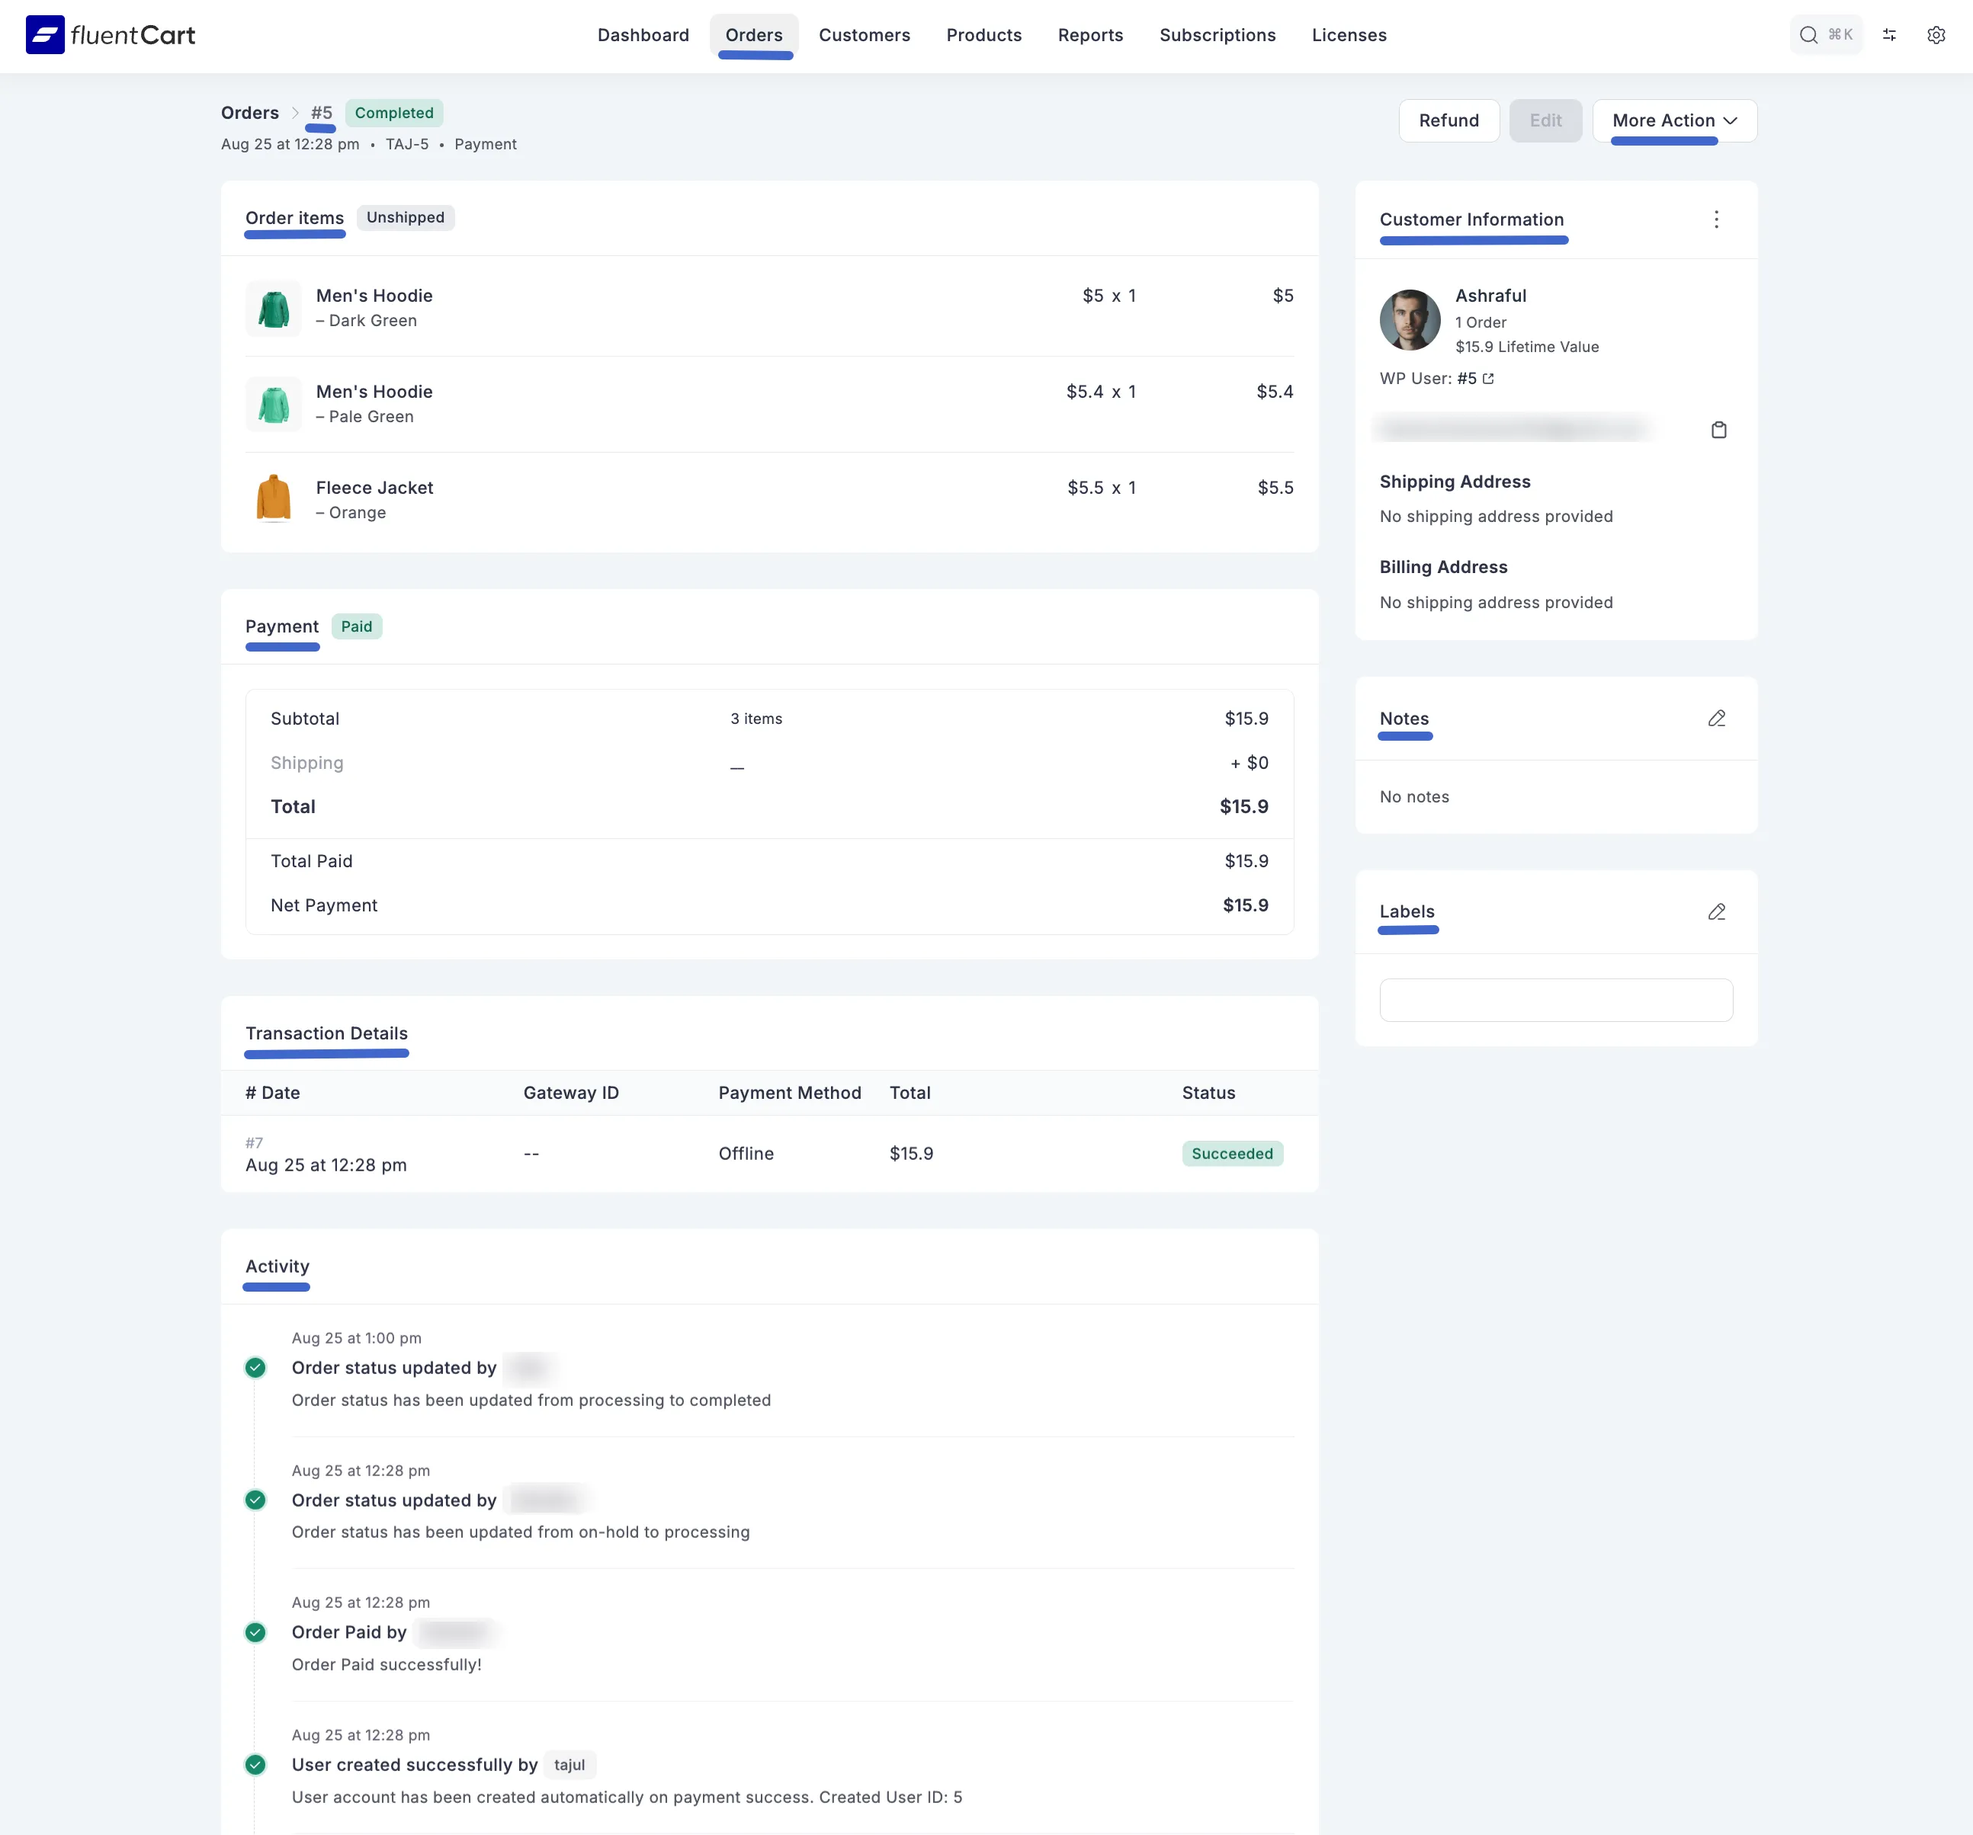
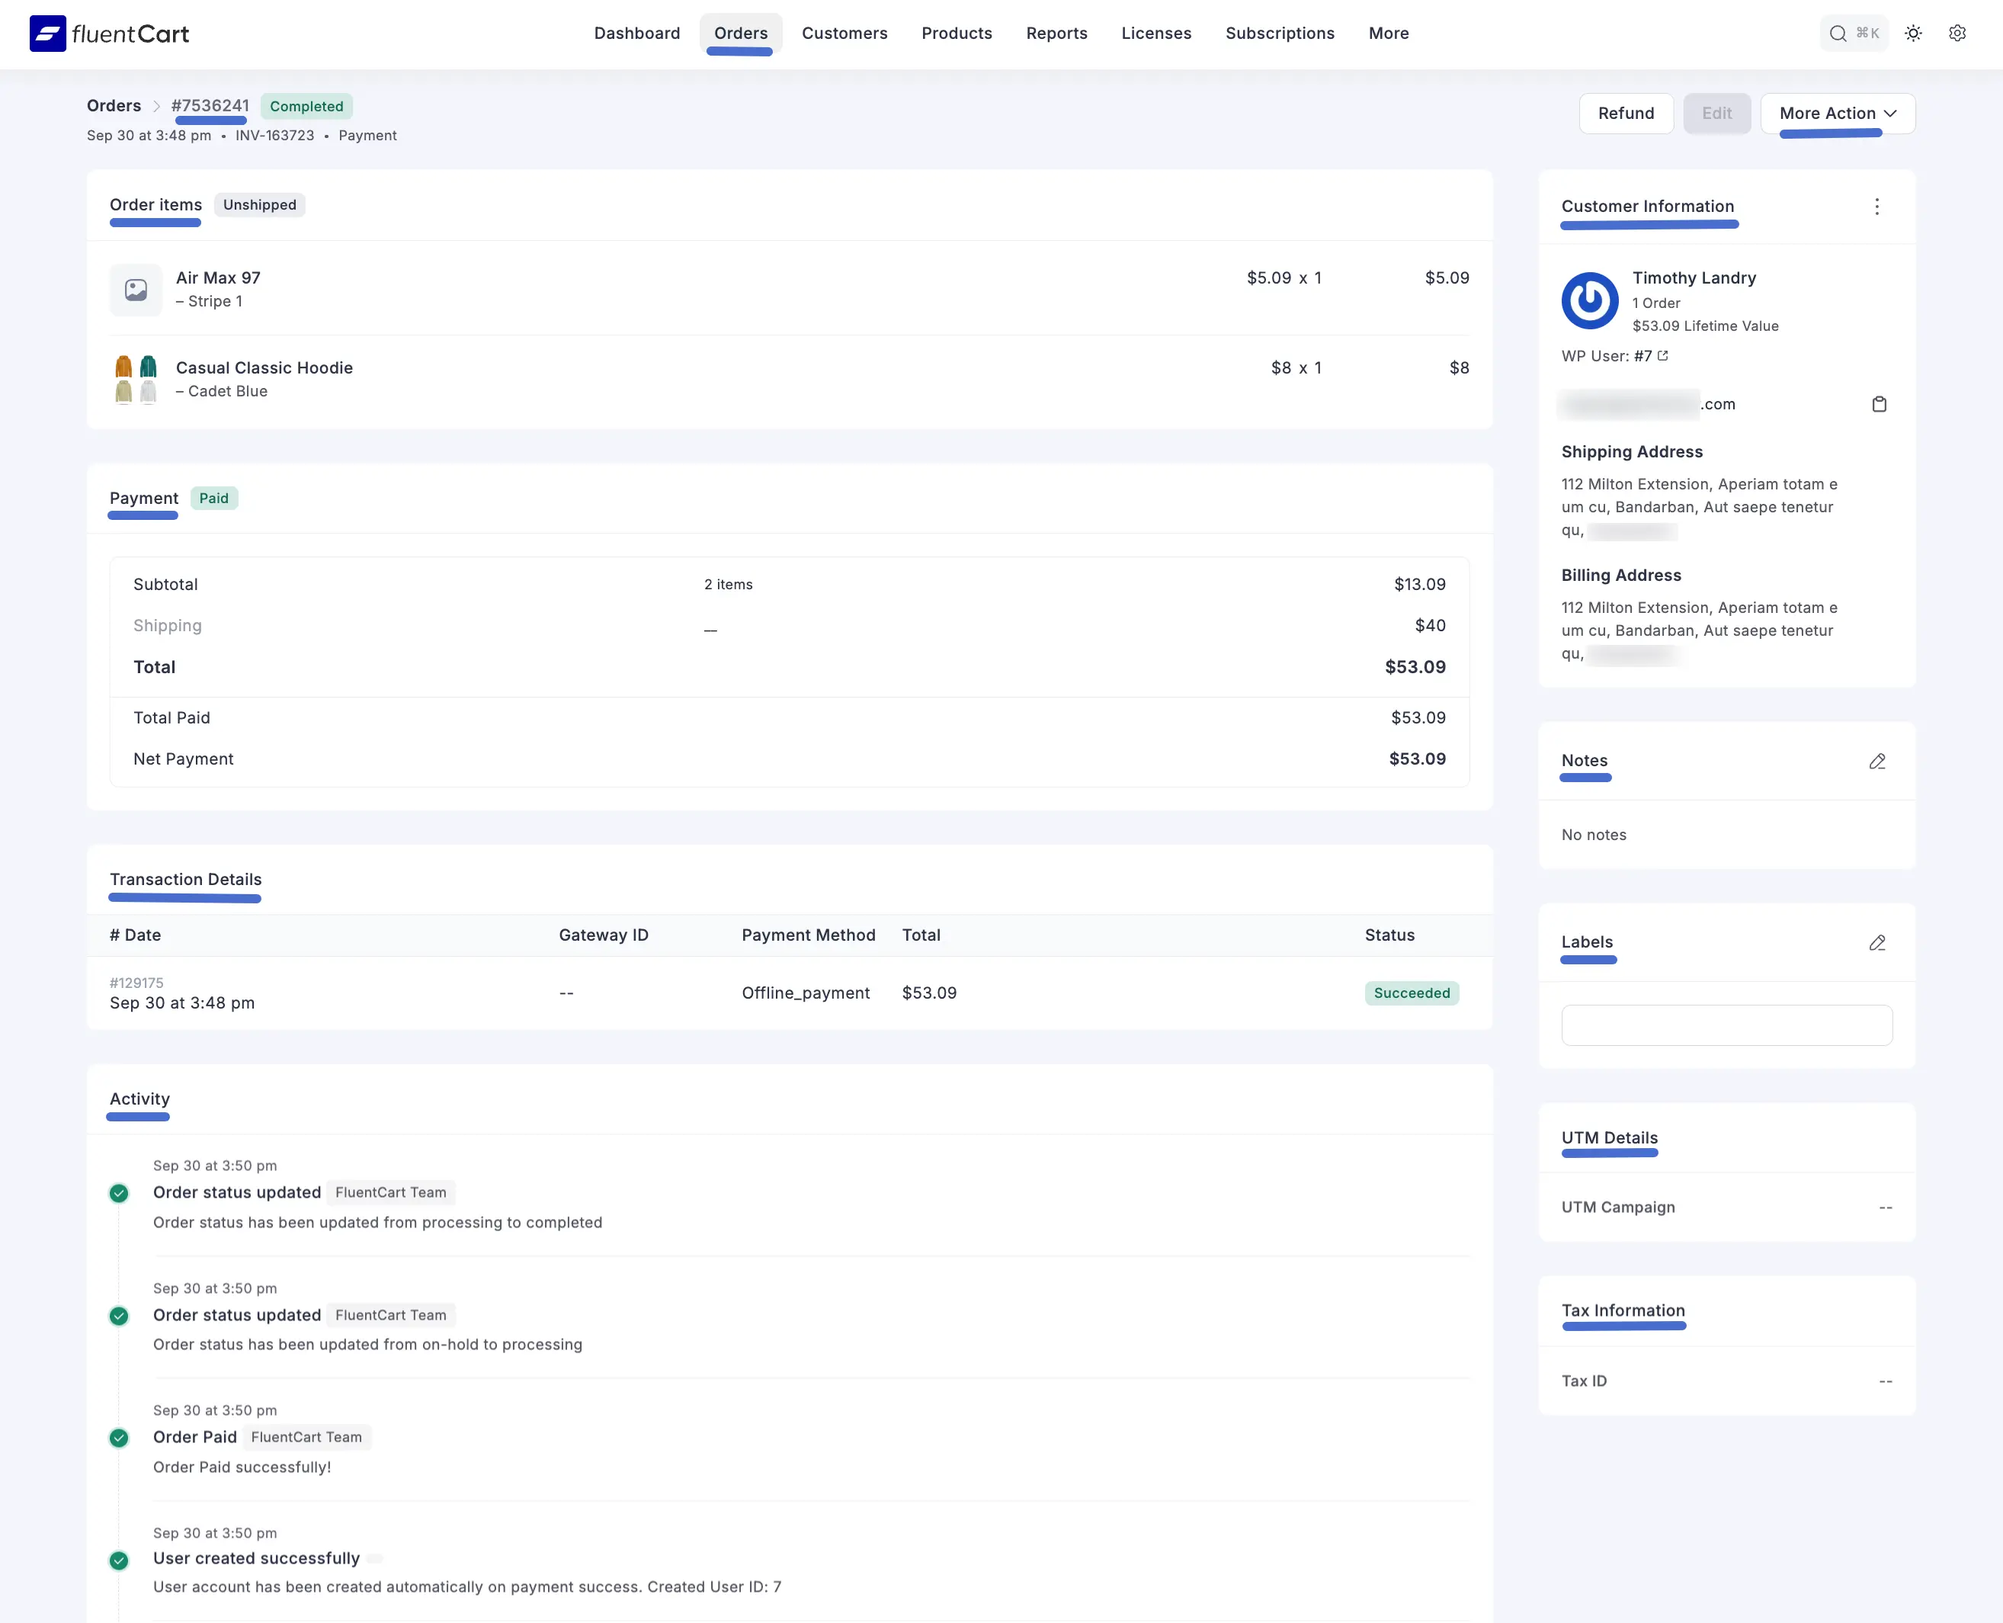
Update orders details overview doc
In orders details overview doc update- add UTM and Tax information short description and change image

diff --git a/guide/store-management/orders-management/order-details-overview.md b/guide/store-management/orders-management/order-details-overview.md
@@ -78,3 +78,15 @@ A complete, time-ordered record of all important events and changes related to t
 
 * **Examples:** Order status updates (e.g., "Order status updated from completed to processing"), payment paid, refunds processed, license upgrades, and order creation events.
 
+### 8. UTM Details
+
+This section shows any UTM (Urchin Tracking Module) parameters that were recorded when the customer placed their order.
+
+ * **UTM Campaign:** Shows the specific marketing campaign that brought the customer to your store. This information is valuable for tracking the effectiveness of your advertising and marketing efforts.
+
+### 9. Tax Information
+
+This section on the sidebar shows the tax details the customer provided during checkout.
+
+ * **Tax ID:** Displays the customer's **Tax Identification** Number. This is especially useful for B2B (business-to-business) sales or for complying with regional tax regulations that require collecting this information. To learn more about Tax, read the [Documentation](/guide/tax-&-duties/configuration-and-classes/).
+

diff --git a/guide/product-types-creation/creating-physical-products.md b/guide/product-types-creation/creating-physical-products.md
@@ -168,7 +168,7 @@ The **Tax Class** allows you to apply specific tax rules to your product.
 To assign a tax class:
 
  1. Locate the **Tax Class** section on the right side of the screen.
- 2. Select a pre-configured tax class from the dropdown menu, or click **+ Add** to create a new one. The corresponding tax rate will then be automatically applied to this product during checkout. To learn more about Tax, read this [documentation](/guide/tax-&-duties/configuration-and-classes/).
+ 2. Select a pre-configured tax class from the dropdown menu, or click **+ Add** to create a new one. The corresponding tax rate will then be automatically applied to this product during checkout. To learn more about Tax, read this [Documentation](/guide/tax-&-duties/configuration-and-classes/).
 
 ## Publishing Settings
 
